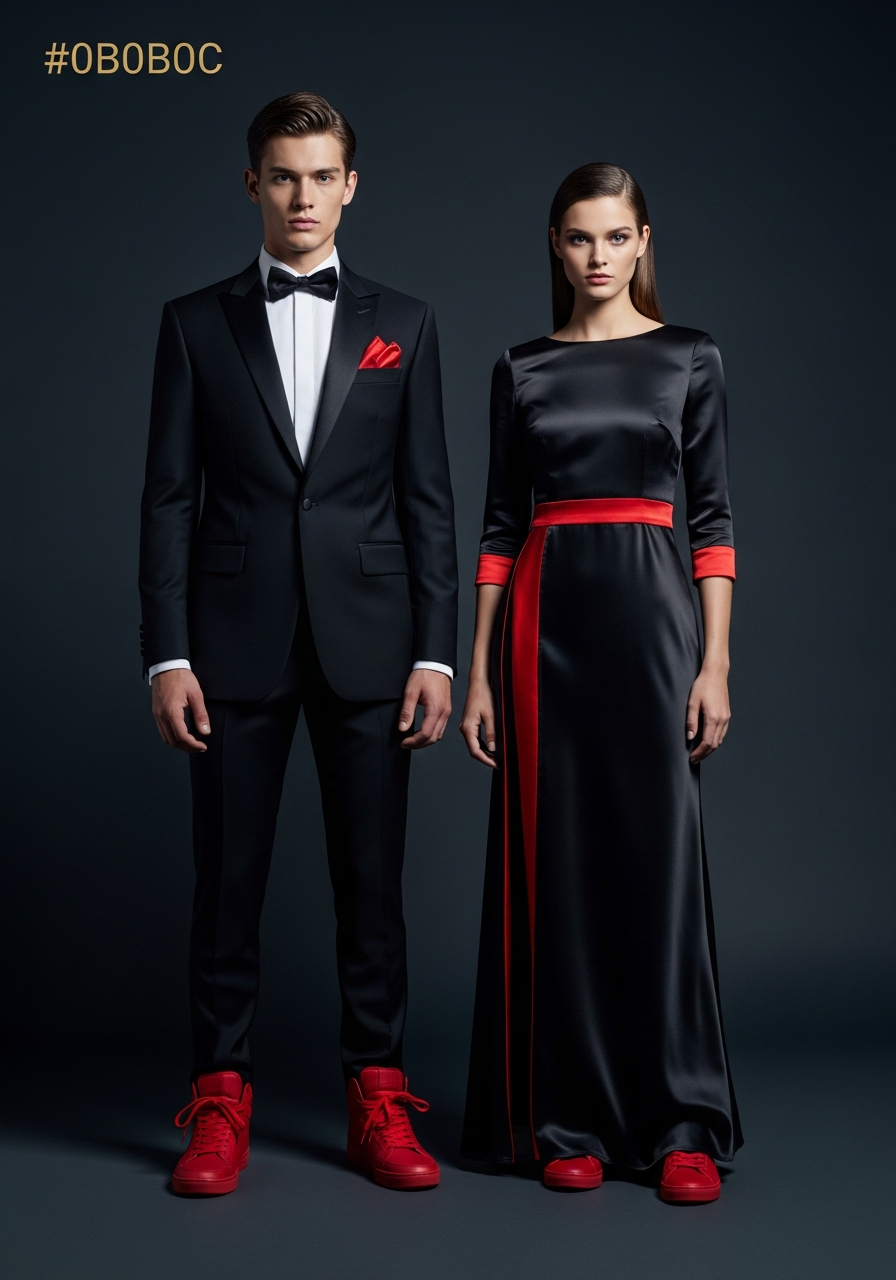
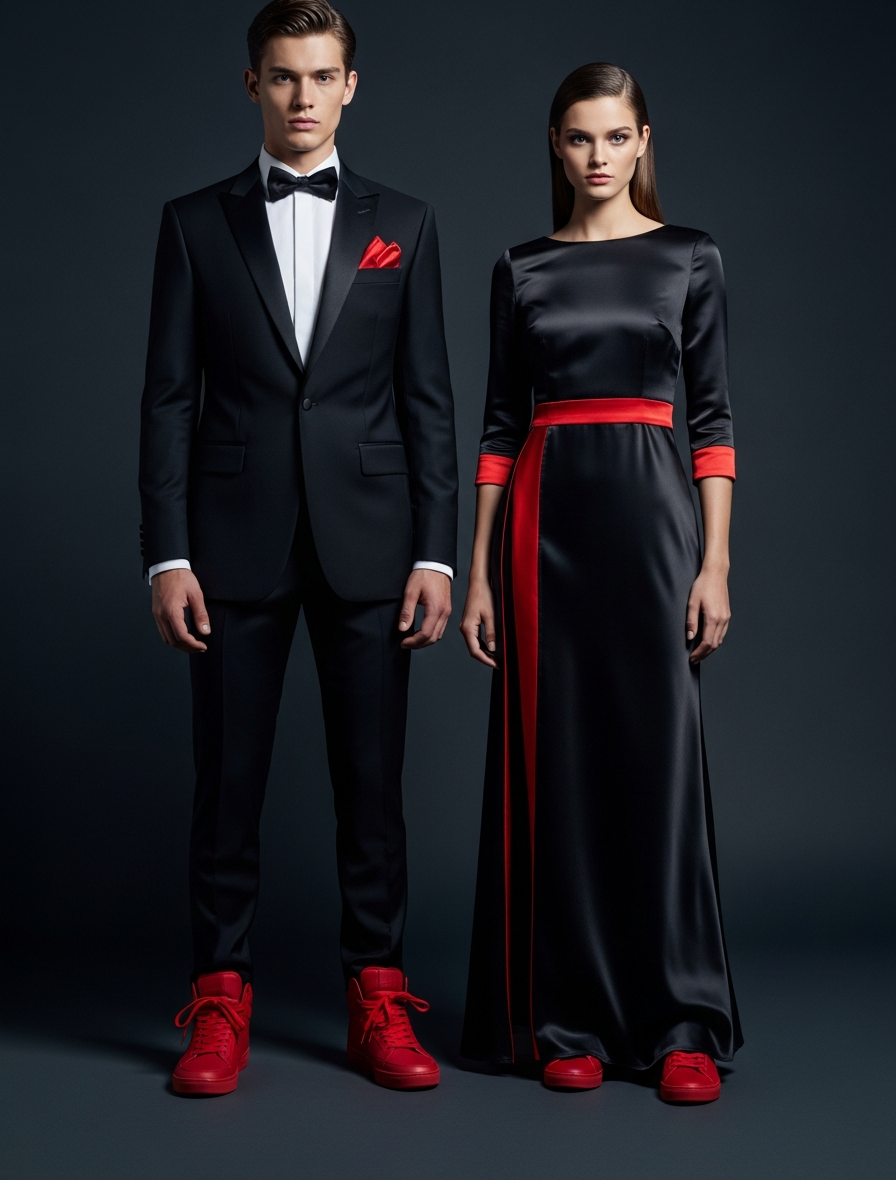
Fix models hidden by dark overlay on web onboarding screen
Adjust web shim for LinearGradient component to render actual CSS gradients instead of solid colors, resolving an issue where hero models were obscured on the onboarding screen. Also cropped a stray text artifact from an image.

Replit-Commit-Author: Agent
Replit-Commit-Session-Id: fa4448f2-ebfd-40db-b201-cb55ba4870be
Replit-Commit-Checkpoint-Type: full_checkpoint
Replit-Commit-Event-Id: 001cac73-b2c4-41de-bf65-aa4fac11b766
Replit-Commit-Screenshot-Url: https://storage.googleapis.com/screenshot-production-us-central1/dc7c3da2-0d75-476b-899a-1533c7000a88/fa4448f2-ebfd-40db-b201-cb55ba4870be/Nnl2Hv5
Replit-Helium-Checkpoint-Created: true

diff --git a/artifacts/mobile/lib/safeWebShims.tsx b/artifacts/mobile/lib/safeWebShims.tsx
@@ -9,10 +9,13 @@
  * visual regression on the native app.
  *
  * Web fallbacks:
- *   - LinearGradient → View with the first color in `colors` as a solid
- *     background. The vast majority of usages stack a dark gradient over
- *     a dark background, so the visual difference is minor (no fade, but
- *     no crash).
+ *   - LinearGradient → View with a real CSS `linear-gradient(...)` painted
+ *     via `backgroundImage`. Still a plain View (no expo-linear-gradient on
+ *     web, so the crash-safety of this shim is unchanged), but the actual
+ *     gradient renders. The previous fallback painted the FIRST color as a
+ *     SOLID background, which turned the onboarding splash's framing
+ *     gradient into an opaque near-black veil that hid the hero models
+ *     entirely.
  *   - BlurView → View with a translucent dark backdrop (rgba(11,11,12,0.7))
  *     which is the only place BlurView is used in this app (tab bar).
  *
@@ -33,16 +36,52 @@ const IS_WEB = Platform.OS === "web";
 
 export function LinearGradient(props: LinearGradientProps) {
   if (IS_WEB) {
-    const { colors, style, children, ...rest } = props;
-    const fallback =
-      Array.isArray(colors) && colors.length > 0
-        ? (colors[0] as string)
-        : "transparent";
+    const { colors, locations, start, end, style, children, ...rest } = props;
+    const colorList = Array.isArray(colors) ? (colors as string[]) : [];
+
+    let webStyle: ViewStyle;
+    if (colorList.length >= 2) {
+      // CSS angle: 0deg = to top, measured clockwise. RN start/end are in
+      // a unit square with y pointing DOWN; direction (dx, dy) maps to
+      // θ = atan2(dx, -dy). Defaults (0.5,0)→(0.5,1) give 180deg (top→bottom).
+      // LinearGradientPoint can be {x, y} or a [x, y] tuple — normalize.
+      const toXY = (
+        p: LinearGradientProps["start"],
+        fx: number,
+        fy: number
+      ): [number, number] => {
+        if (Array.isArray(p)) return [p[0] ?? fx, p[1] ?? fy];
+        if (p && typeof p === "object") return [p.x ?? fx, p.y ?? fy];
+        return [fx, fy];
+      };
+      const [sx, sy] = toXY(start, 0.5, 0);
+      const [ex, ey] = toXY(end, 0.5, 1);
+      const dx = ex - sx;
+      const dy = ey - sy;
+      const angle =
+        dx === 0 && dy === 0
+          ? 180
+          : Math.round((Math.atan2(dx, -dy) * 180) / Math.PI);
+      const stops = colorList
+        .map((c, i) => {
+          const loc =
+            locations && locations[i] != null
+              ? (locations[i] as number)
+              : i / (colorList.length - 1);
+          return `${c} ${(loc * 100).toFixed(2)}%`;
+        })
+        .join(", ");
+      webStyle = {
+        backgroundImage: `linear-gradient(${angle}deg, ${stops})`,
+      } as ViewStyle;
+    } else {
+      webStyle = {
+        backgroundColor: colorList.length === 1 ? colorList[0] : "transparent",
+      };
+    }
+
     return (
-      <View
-        {...rest}
-        style={[{ backgroundColor: fallback }, style as StyleProp<ViewStyle>]}
-      >
+      <View {...rest} style={[webStyle, style as StyleProp<ViewStyle>]}>
         {children}
       </View>
     );

diff --git a/artifacts/mobile/app/onboarding.tsx b/artifacts/mobile/app/onboarding.tsx
@@ -165,19 +165,21 @@ export default function OnboardingScreen() {
           style={splash.heroImage}
           resizeMode="cover"
         />
-        {/* Editorial framing gradient — solid dark at the very top so the
-            brand lockup reads on near-black, clears in the middle band so
-            the hero models are fully visible, then deepens to solid #0B0B0C
-            at the bottom so the gold CTA sits on a clean dark plate. */}
+        {/* Editorial framing gradient — dark at the very top so the brand
+            lockup reads on near-black, FULLY clear through the middle band so
+            the hero models are actually visible (the photo is already dark;
+            any veil here blacks them out — that was the invisible-models
+            bug), then deepens to solid #0B0B0C only at the very bottom so
+            the gold CTA sits on a clean dark plate. */}
         <LinearGradient
           colors={[
-            "rgba(11,11,12,0.96)",
-            "rgba(11,11,12,0.78)",
-            "rgba(11,11,12,0.10)",
-            "rgba(11,11,12,0.55)",
+            "rgba(11,11,12,0.92)",
+            "rgba(11,11,12,0.45)",
+            "rgba(11,11,12,0)",
+            "rgba(11,11,12,0)",
             "#0B0B0C",
           ]}
-          locations={[0, 0.22, 0.45, 0.78, 1]}
+          locations={[0, 0.16, 0.32, 0.74, 1]}
           style={StyleSheet.absoluteFill}
         />
 

diff --git a/.agents/memory/MEMORY.md b/.agents/memory/MEMORY.md
@@ -13,5 +13,6 @@
 - [TV Shows weekly-quota invariant](tv-shows-weekly-quota.md) — each tvShows.ts category pool must be > its WEEKLY_QUOTA or rotatePick silently degrades the top-10 (fewer items + no rotation); typecheck won't catch it.
 - [parseBudget silent default](parsebudget-silent-default.md) — unrecognized budget tokens (e.g. "$$$") fall back to $500–$1500, starving the resolver → 0 looks → red error; luxury surfaces must pass "$6000+". Runway heroes use real piece.imageUrl, not editorial/localImage.
 - [Outfit completeness contract](outfit-completeness.md) — no partial outfits; `isCompleteOutfit` gates every look-builder; women REQUIRE a bag; men's bags whitelisted (no totes — `isBagAppropriateForGender`); AI resolver backfills; composes with budget hard-cap; bagless brand-lock → honest empty.
+- [Web LinearGradient shim](web-lineargradient-shim.md) — web shim must render a real CSS linear-gradient, never a solid first-color View; the solid fallback blacked out the splash hero models.
 - [Formal Remix rules](formal-remix-sneaker-alt.md) — formalwear-only garment whitelist (`isFormalRemixGarment`, per-gender) + HARD one-accent-color-scheme invariant (`isFormalRemixColorCohesive`) on every branch + sneaker lock; plus additive `sneakerAlt` (swap-headroom budget, price+prestige ranked).
 - [Mandatory season consistency](season-consistency.md) — no summer+winter mix in any look; `isSeasonallyConsistent` gate on ALL builders + AI resolver; name-based `hasSeasonConflict` catches accessory violations (tank+scarf) that inferItemSeasons misses; keep neutrals flexible.

diff --git a/.agents/memory/web-lineargradient-shim.md b/.agents/memory/web-lineargradient-shim.md
@@ -1,0 +1,10 @@
+---
+name: Web LinearGradient shim renders real CSS gradient
+description: safeWebShims LinearGradient on web must emit a CSS linear-gradient, never a solid first-color View
+---
+
+Rule: on web, the `LinearGradient` shim in `safeWebShims` renders a plain View with a CSS `linear-gradient(...)` via `backgroundImage` (angle from start/end, stops from locations). It must never fall back to painting the FIRST gradient color as a solid background.
+
+**Why:** the original crash-safety shim painted the first color solid; on the onboarding splash that first color was rgba(11,11,12,0.92), producing an opaque near-black veil that made the hero models completely invisible on web (user-reported bug). The solid-first-color fallback silently ruins any gradient whose first stop is heavy.
+
+**How to apply:** keep gradient overlays' first stops as heavy as design needs — the shim now renders them faithfully. If adding gradient features (useAngle, angleCenter), extend the shim's CSS mapping rather than reverting to a solid fill. Crash-safety is preserved because expo-linear-gradient is still never mounted on web.
